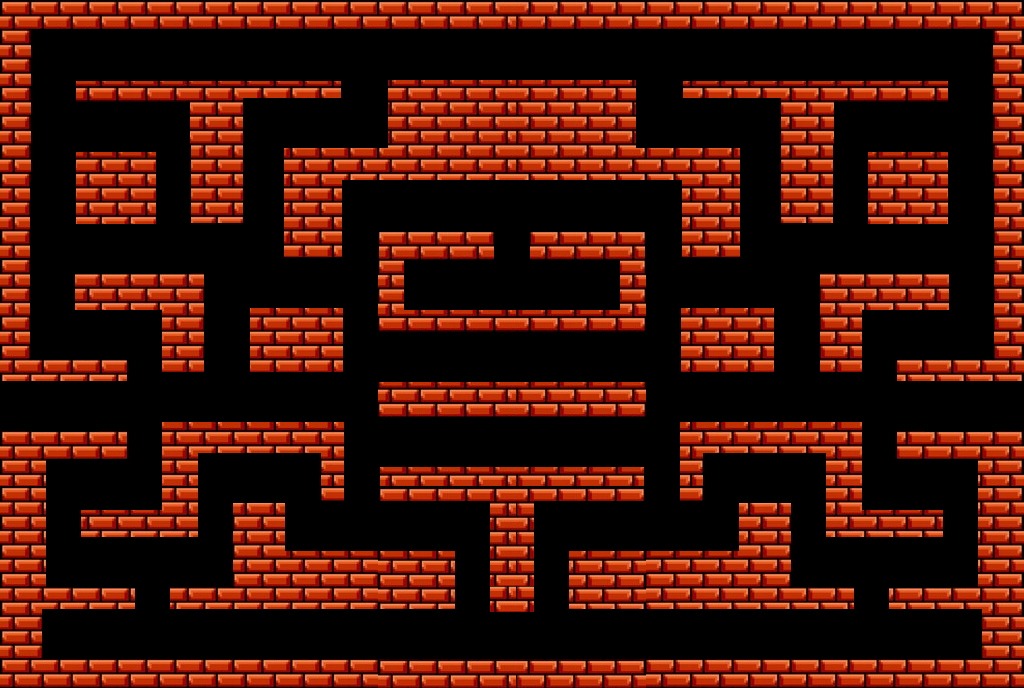
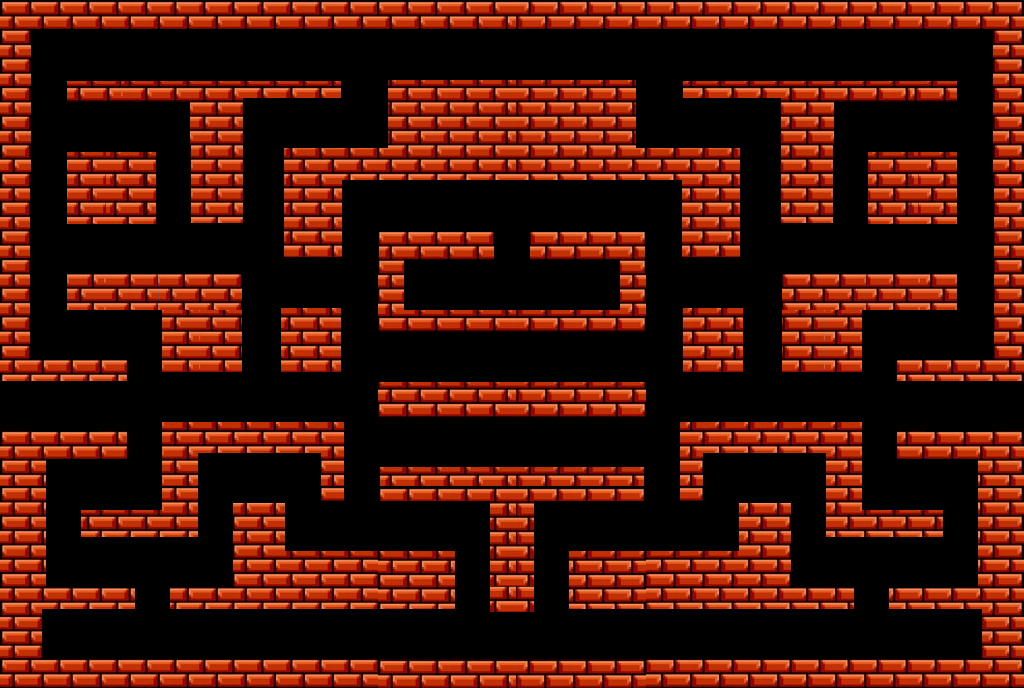
Se añadio la funcion que carga las paredes a su zona correspondiente segun su ubicacion en el mapa

diff --git a/tdp-proyecto-3/src/logic/Game.java b/tdp-proyecto-3/src/logic/Game.java
@@ -26,10 +26,8 @@ public class Game {
 		myGUI.addEntity(player);
 		
 		this.walls = currentLevel.getWalls();
-		myGUI.addWall(currentLevel.getWalls().get(0));
-		//myGUI.addWall(currentLevel.getWalls().get(1));
-
-	
+		chargeZones();
+		
 		myGUI.addEntity(currentLevel.enemies().get(0));
 		myGUI.setupBackground(); 
 	}
@@ -40,7 +38,33 @@ public class Game {
 		
 		myZones[0][0] = new Zone(new Point(0,0), new Point (256, 0), new Point(0, 167) , new Point(256, 167));
 		
-		//myZones[0][0].addEntity(wall);
+	}
+	
+	private void chargeZones() {
+	
+		Point p;
+		Rectangle r;
+		
+		for (Entity e: walls) {
+			
+			p = new Point (e.getXValue(), e.getYValue());
+			for (int i = 0; i < myZones.length ; i++ )
+				for (int j = 0; j < myZones[0].length ; j++) {
+					
+					if (myZones[i][j] != null) {
+						
+						r = new Rectangle (0, 0, myZones[i][j].getWidthOfZone(), myZones[i][j].getHeightOfZone() );
+	
+						if (r.contains(p)) {
+							myGUI.addWall(e);
+							myZones[i][j].addEntity(e);
+				
+						}
+					}	
+				}
+		}
+		
+		
 	}
 
 	private void initializeLevel() {
@@ -73,27 +97,58 @@ public class Game {
 
 		myGUI.refreshEntity(player);
 		
-
-		figure1 = new Rectangle (myGUI.getLabel(player).getBounds());
-		figure2 = new Rectangle (myGUI.getLabel(walls.get(0)).getBounds());
-		//figure1.grow(14, 0);
-		System.out.println("BOUNDS jugador: " + figure1.getBounds());
-		System.out.println("BOUNDS wall: " + figure2.getBounds());
-	
-		if (figure1.intersects(figure2))
-			walls.get(0).accept(player.getVisitor());
 		
-		System.out.println("INTERSECTARON ? : " + figure1.intersects(figure2));
+		
+		figure1 = new Rectangle (myGUI.getLabel(player).getBounds());
+		Zone z = getZone(player.getXValue(), player.getYValue());
+		
+		if (z != null) {
+
+		for (Entity ent: z.getEntities()) {	
+
+			if (ent != null) {
+
+				figure2 = new Rectangle (myGUI.getLabel(ent).getBounds());
+				if (figure1.intersects(figure2)) {
+		
+					ent.accept(player.getVisitor());
+				}
+			}
+		}
+
+
+		//System.out.println("BOUNDS jugador: " + figure1.getBounds());
+		}
+//		System.out.println("BOUNDS wall: " + figure2.getBounds());
+	
+
+		
+	//	System.out.println("INTERSECTARON ? : " + figure1.intersects(figure2));
 		
 	}
+
+	private Zone getZone(int xValue, int yValue) {
+		
+		for (int i = 0; i < myZones.length; i++) 
+			for (int j = 0; j < myZones[0].length; j++)
+				if (myZones[i][j] != null)
+					if (myZones[i][j].inside(xValue, yValue))
+						return myZones[i][j];
 	
-	
-	
-	
-	
-	
-	
-	
-	
-	
+		
+		return null;
+					
+		
+	}
 }
+	
+	
+	
+	
+	
+	
+	
+	
+	
+	
+

diff --git a/tdp-proyecto-3/src/gui/GUI.java b/tdp-proyecto-3/src/gui/GUI.java
@@ -46,25 +46,27 @@ public class GUI extends JFrame {
 	private void setupWindow() {
 		
 		setDefaultCloseOperation(JFrame.EXIT_ON_CLOSE);
-        setMinimumSize(new Dimension(1072, 700)); 
+        setMinimumSize(new Dimension(1024, 730)); 
         setLocationRelativeTo(null);
         
 		setContentPane(panel);
 		panel.setLayout(null);
        
-		//setUndecorated(true);
-	    //setResizable(false);
+		setUndecorated(true);
+	    setResizable(false);
 
 	}
 	
 	public void setupBackground() {
 		
+		
 		JLabel backgroundLabel = new JLabel("");
-		backgroundLabel.setSize(1024, 688);
+		backgroundLabel.setSize(new Dimension(1024, 688));
 		backgroundImage = new ImageIcon(GUI.class.getResource(backgroundUrl));
 		backgroundLabel.setIcon(backgroundImage);
+		
 		//backgroundLabel.setLocation( (panel.getWidth() - backgroundLabel.getWidth()) / 2, (panel.getHeight() - backgroundLabel.getHeight()) / 2);
-		backgroundLabel.setLocation(0, (panel.getHeight() - backgroundLabel.getHeight()) / 2);
+		backgroundLabel.setLocation(0, 15);
 		this.add(backgroundLabel);
 	}
 
@@ -100,9 +102,9 @@ public class GUI extends JFrame {
 		ImageIcon entityImage = new ImageIcon(GUI.class.getResource(entity.getImageRoute()));
 	
 
-		entityLabel.setOpaque(rootPaneCheckingEnabled);
-		entityLabel.setBackground(Color.BLUE);
-		entityLabel.setBounds(entity.getXValue(), entity.getYValue() , entityImage.getIconWidth()+20, entityImage.getIconHeight() );
+	//	entityLabel.setOpaque(rootPaneCheckingEnabled);
+	//	entityLabel.setBackground(Color.BLUE);
+		entityLabel.setBounds(entity.getXValue(), entity.getYValue() , entityImage.getIconWidth() +7, entityImage.getIconHeight() );
 		entityLabel.setIcon(entityImage);
 		entityLabel.setHorizontalAlignment(SwingConstants.CENTER);
 		panel.add(entityLabel);

diff --git a/tdp-proyecto-3/src/logic/Zone.java b/tdp-proyecto-3/src/logic/Zone.java
@@ -8,8 +8,6 @@ import java.awt.Point;
 
 public class Zone {
 
-	
-	
 	private List<Entity> myEntities;
 	private Point upperLeftVertex;
 	private Point upperRightVertex;
@@ -25,6 +23,11 @@ public class Zone {
 		this.bottomLeftVertex = bottomLeftVertex;
 		this.bottomRightVertex = bottomRightVertex;
 		
+	}
+	
+	public List<Entity> getEntities() {
+		
+		return myEntities;
 	}
 	
 	public void addEntity(Entity entity) {
@@ -56,6 +59,40 @@ public class Zone {
 		
 		return bottomRightVertex;
 	}
+	
+	public Point getCenterOfRectangle() {
+		
+		int centerX;
+		int centerY;
+		
+		centerX = (int) (upperRightVertex.getX() + upperLeftVertex.getX()) / 2;
+		centerY = (int) (upperRightVertex.getY() + bottomRightVertex.getY()) / 2;
+		
+	    
+	    return new Point(centerX, centerY);
+		
+	}
+	
+	public int getWidthOfZone() {
+		
+		return  (int) (upperRightVertex.getX() - upperLeftVertex.getX());
+	}
+	
+	public int getHeightOfZone() {
+		
+		return 	(int) (bottomLeftVertex.getY() - upperRightVertex.getY());
+	}
+	
+	public boolean inside(int x, int y) {
+		
+		return ( (x >= upperLeftVertex.getX() && x <= upperRightVertex.getX()) &&
+			(y >= upperLeftVertex.getY() && y <= bottomLeftVertex.getY()));
+
+		
+		
+	}
+	
+	
 	
 	
 	

diff --git a/tdp-proyecto-3/src/logic/Director.java b/tdp-proyecto-3/src/logic/Director.java
@@ -23,8 +23,10 @@ public void constructLevelOne(Builder b) {
 	
 	Entity w1 = new Wall(0, 0, 31, 356);
 	Entity w2 = new Wall(0, 0, 1024, 29);
+	Entity w3 = new Wall(67, 80, 266, 21);
 	walls.add(w1);
 	walls.add(w2);
+	walls.add(w3);
 	
 	for (int i = 0; i < components.size(); i++) {
 		
@@ -47,6 +49,8 @@ public void constructLevelOne(Builder b) {
     b.createWalls(walls);
 	
 }
+
+
 
 
 }
